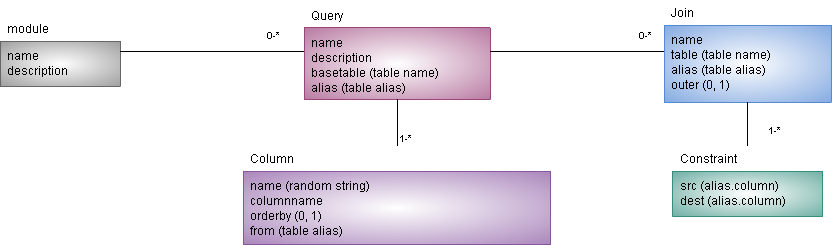
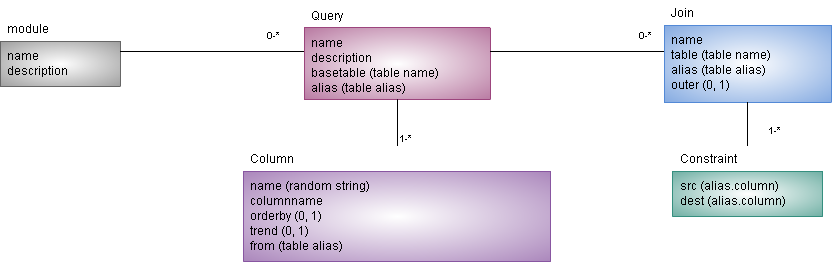
Add business components

diff --git a/src/org/data/support/tool/data/xml/metadata/Query.java b/src/org/data/support/tool/data/xml/metadata/Query.java
@@ -1,0 +1,83 @@
+package org.data.support.tool.data.xml.metadata;
+
+import java.io.Serializable;
+import java.util.ArrayList;
+import java.util.List;
+
+public class Query implements Serializable{
+	
+	/**
+	 * 
+	 */
+	private static final long serialVersionUID = 3850276420980855430L;
+	
+	
+	private String name;
+	private String description;
+	private String baseTable;
+	private String alias;
+	
+	private List<Column> columns = new ArrayList<Column>();
+	private List<Join> joins = new ArrayList<Join>();
+	
+	public String getName() {
+		return name;
+	}
+	public void setName(String name) {
+		this.name = name;
+	}
+	public String getDescription() {
+		return description;
+	}
+	public void setDescription(String description) {
+		this.description = description;
+	}
+	public String getBaseTable() {
+		return baseTable;
+	}
+	public void setBaseTable(String baseTable) {
+		this.baseTable = baseTable;
+	}
+	public String getAlias() {
+		return alias;
+	}
+	public void setAlias(String alias) {
+		this.alias = alias;
+	}
+	
+	
+	public List<Column> getColumns() {
+		return columns;
+	}
+	
+	public Column getColumnAtIndex(int index){
+		return this.columns.get(index);
+	}
+	
+	public void addColumn(Column column){
+		this.columns.add(column);
+	}
+	
+	public void removeColumn(Column column){
+		this.columns.remove(column);
+	}
+
+	public List<Join> getJoins() {
+		return joins;
+	}
+	
+	public Join getJoinAtIndex(int index){
+		return this.joins.get(index);
+	}
+	
+	public void addJoin(Join join){
+		this.joins.add(join);
+	}
+	
+	public void removeJoin(Join join){
+		this.joins.remove(join);
+	}
+	
+	
+
+}

diff --git a/src/org/data/support/tool/data/xml/metadata/Column.java b/src/org/data/support/tool/data/xml/metadata/Column.java
@@ -1,0 +1,48 @@
+package org.data.support.tool.data.xml.metadata;
+
+import java.io.Serializable;
+
+public class Column implements Serializable{
+	
+	/**
+	 * 
+	 */
+	private static final long serialVersionUID = -8875564798949105409L;
+	
+	private String name;
+	private String columnName;
+	private boolean orderby;
+	private boolean trend;
+	private String from;
+	public String getName() {
+		return name;
+	}
+	public void setName(String name) {
+		this.name = name;
+	}
+	public String getColumnName() {
+		return columnName;
+	}
+	public void setColumnName(String columnName) {
+		this.columnName = columnName;
+	}
+	public boolean isOrderby() {
+		return orderby;
+	}
+	public void setOrderby(boolean orderby) {
+		this.orderby = orderby;
+	}
+	public boolean isTrend() {
+		return trend;
+	}
+	public void setTrend(boolean trend) {
+		this.trend = trend;
+	}
+	public String getFrom() {
+		return from;
+	}
+	public void setFrom(String from) {
+		this.from = from;
+	}	
+
+}

diff --git a/src/org/data/support/tool/data/xml/metadata/Join.java b/src/org/data/support/tool/data/xml/metadata/Join.java
@@ -1,0 +1,44 @@
+package org.data.support.tool.data.xml.metadata;
+
+import java.io.Serializable;
+
+public class Join implements Serializable{
+	
+	/**
+	 * 
+	 */
+	private static final long serialVersionUID = -6717133075642295187L;
+	
+	private String name;
+	private String table;
+	private String alias;
+	private boolean outer;
+	
+	public String getName() {
+		return name;
+	}
+	public void setName(String name) {
+		this.name = name;
+	}
+	public String getTable() {
+		return table;
+	}
+	public void setTable(String table) {
+		this.table = table;
+	}
+	public String getAlias() {
+		return alias;
+	}
+	public void setAlias(String alias) {
+		this.alias = alias;
+	}
+	public boolean isOuter() {
+		return outer;
+	}
+	public void setOuter(boolean outer) {
+		this.outer = outer;
+	}
+	
+	
+
+}

diff --git a/src/org/data/support/tool/data/xml/metadata/Constraint.java b/src/org/data/support/tool/data/xml/metadata/Constraint.java
@@ -1,0 +1,32 @@
+package org.data.support.tool.data.xml.metadata;
+
+import java.io.Serializable;
+
+public class Constraint implements Serializable{
+	
+	/**
+	 * 
+	 */
+	private static final long serialVersionUID = 7954308386282989893L;
+	
+	
+	private String src;
+	private String dest;
+	
+	
+	public String getSrc() {
+		return src;
+	}
+	public void setSrc(String src) {
+		this.src = src;
+	}
+	public String getDest() {
+		return dest;
+	}
+	public void setDest(String dest) {
+		this.dest = dest;
+	}
+	
+	
+
+}
